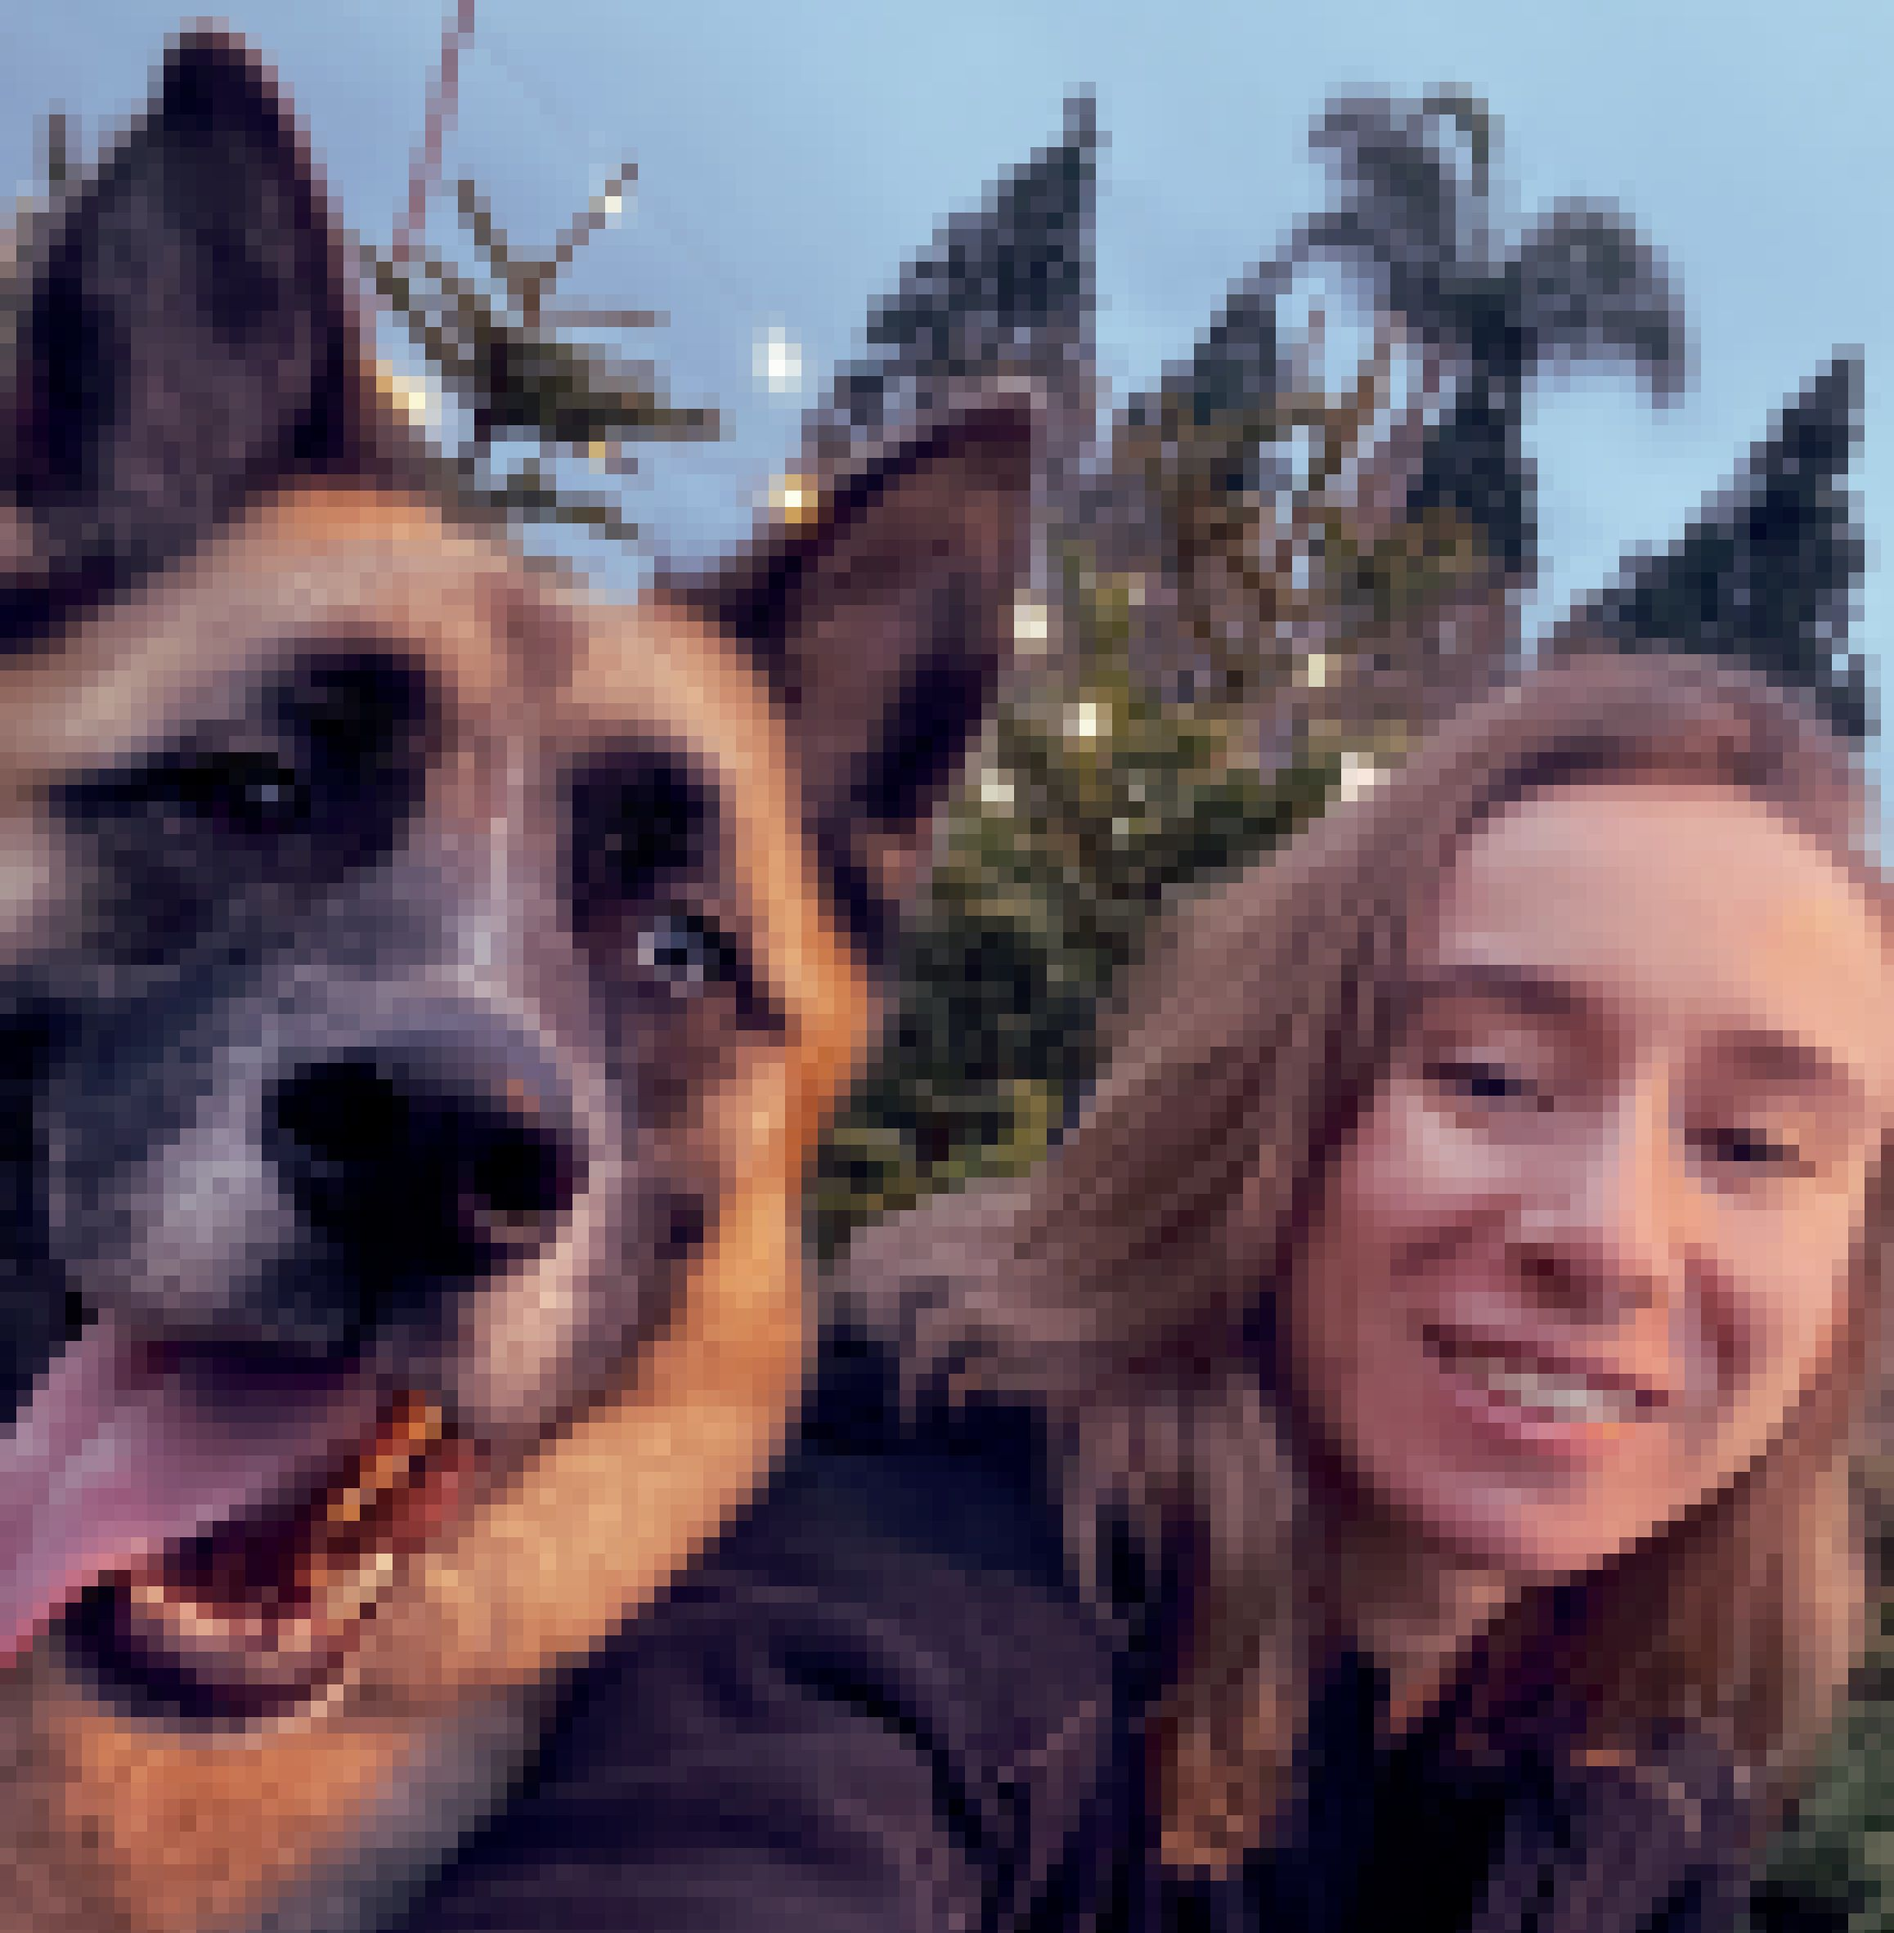
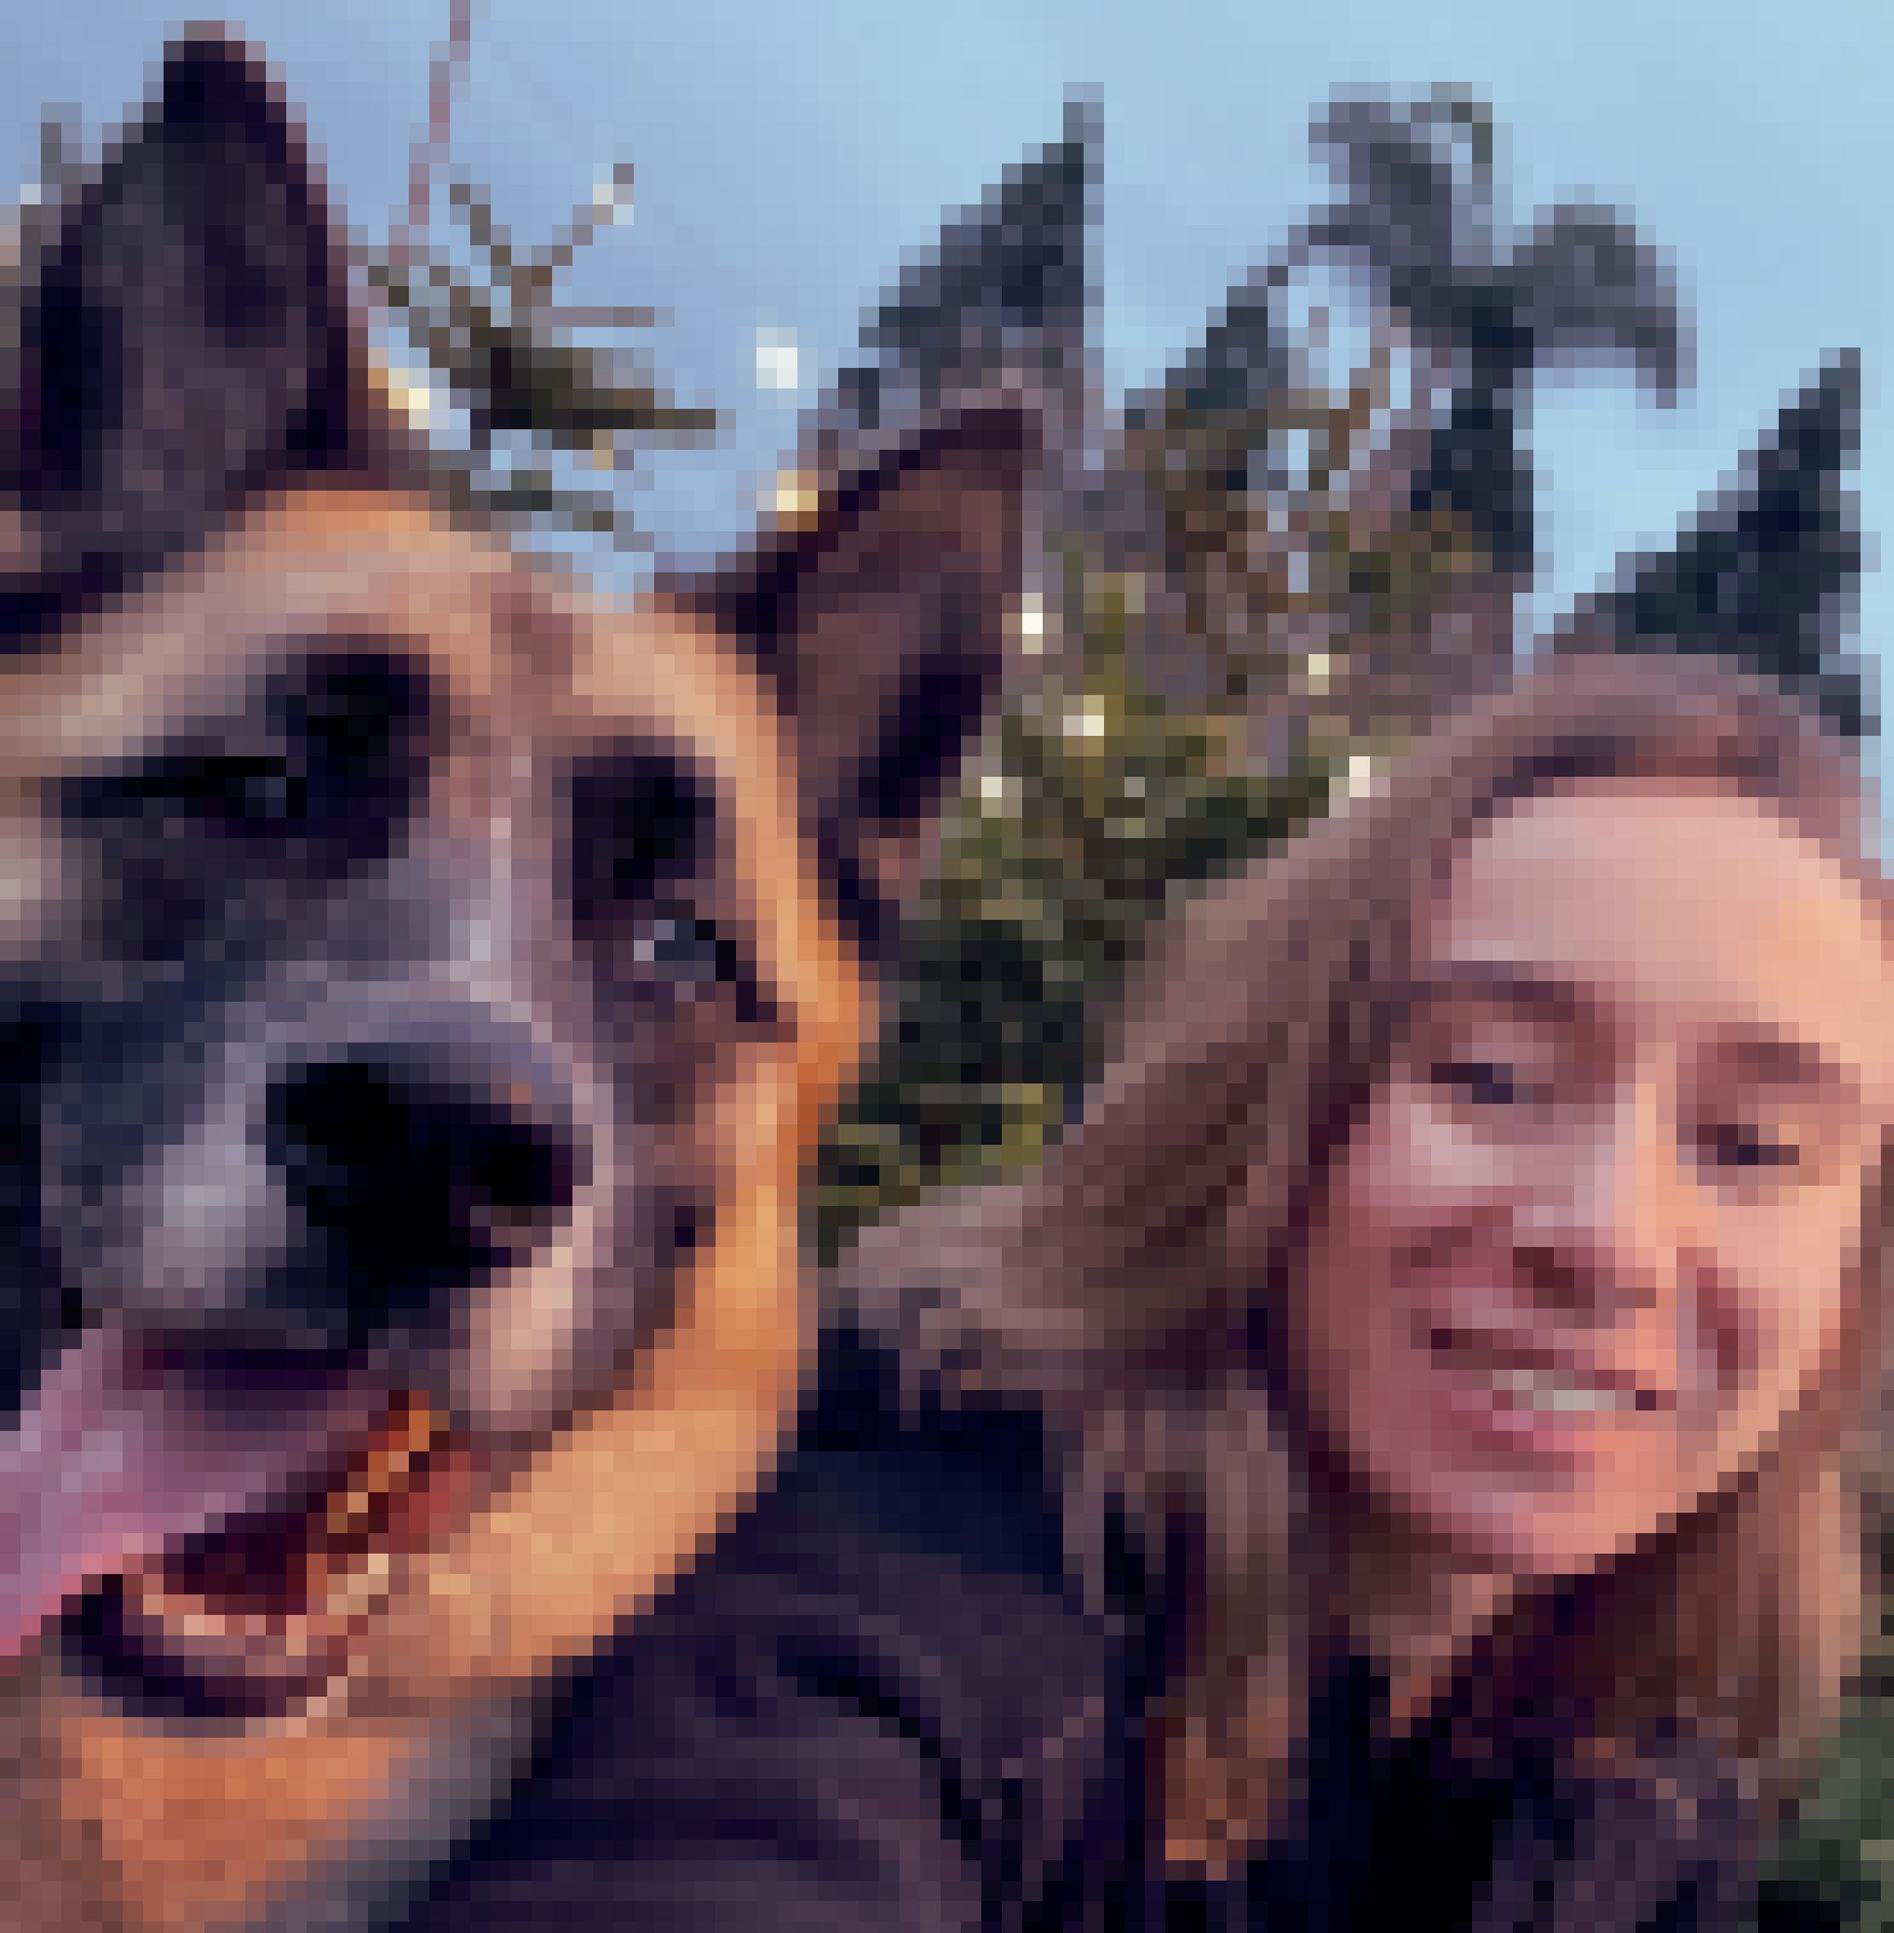
Add contact.js w/ function to pixelize image on mouseover.

diff --git a/contact.html b/contact.html
@@ -13,8 +13,9 @@
         border-style: dashed;
         border-color:#EEDD99;
         max-width: 100%;
-        background-image: url(./img/pixelated1.jpg);
+        background-image: url(./img/contact-pix.jpg);
     }
+    
     h1
     {
         align-self:flex-start;
@@ -34,9 +35,10 @@
             <h3>Have you been browsing my trash heap and like what you see?<br><br>Or maybe you have some questions or even suggestions?<br><br>If so, I'd love to get in touch with you!<br><br>Else, I encourage you to keep looking around. Spend as much time as you like.</h3>
         </div>
         <div class="pic">
-            <img class="contact-pic" src="img/pixelated1.jpg">
+            <img class="contact-pic" src="img/contact-pix.jpg">
         </div>
     </div>
+    <script src="contact.js"></script>
 </body>
 </html>
 

diff --git a/contact.js b/contact.js
@@ -1,0 +1,12 @@
+// Retrieve contact-pic
+const contactPic = document.querySelector(".contact-pic");
+
+//Add hover event listener:
+contactPic.addEventListener('mouseover', e =>
+{
+    e.target.src = "./img/contact1.jpg";
+})
+contactPic.addEventListener('mouseout', e =>
+{
+    e.target.src = "./img/contact-pix.jpg";
+})
